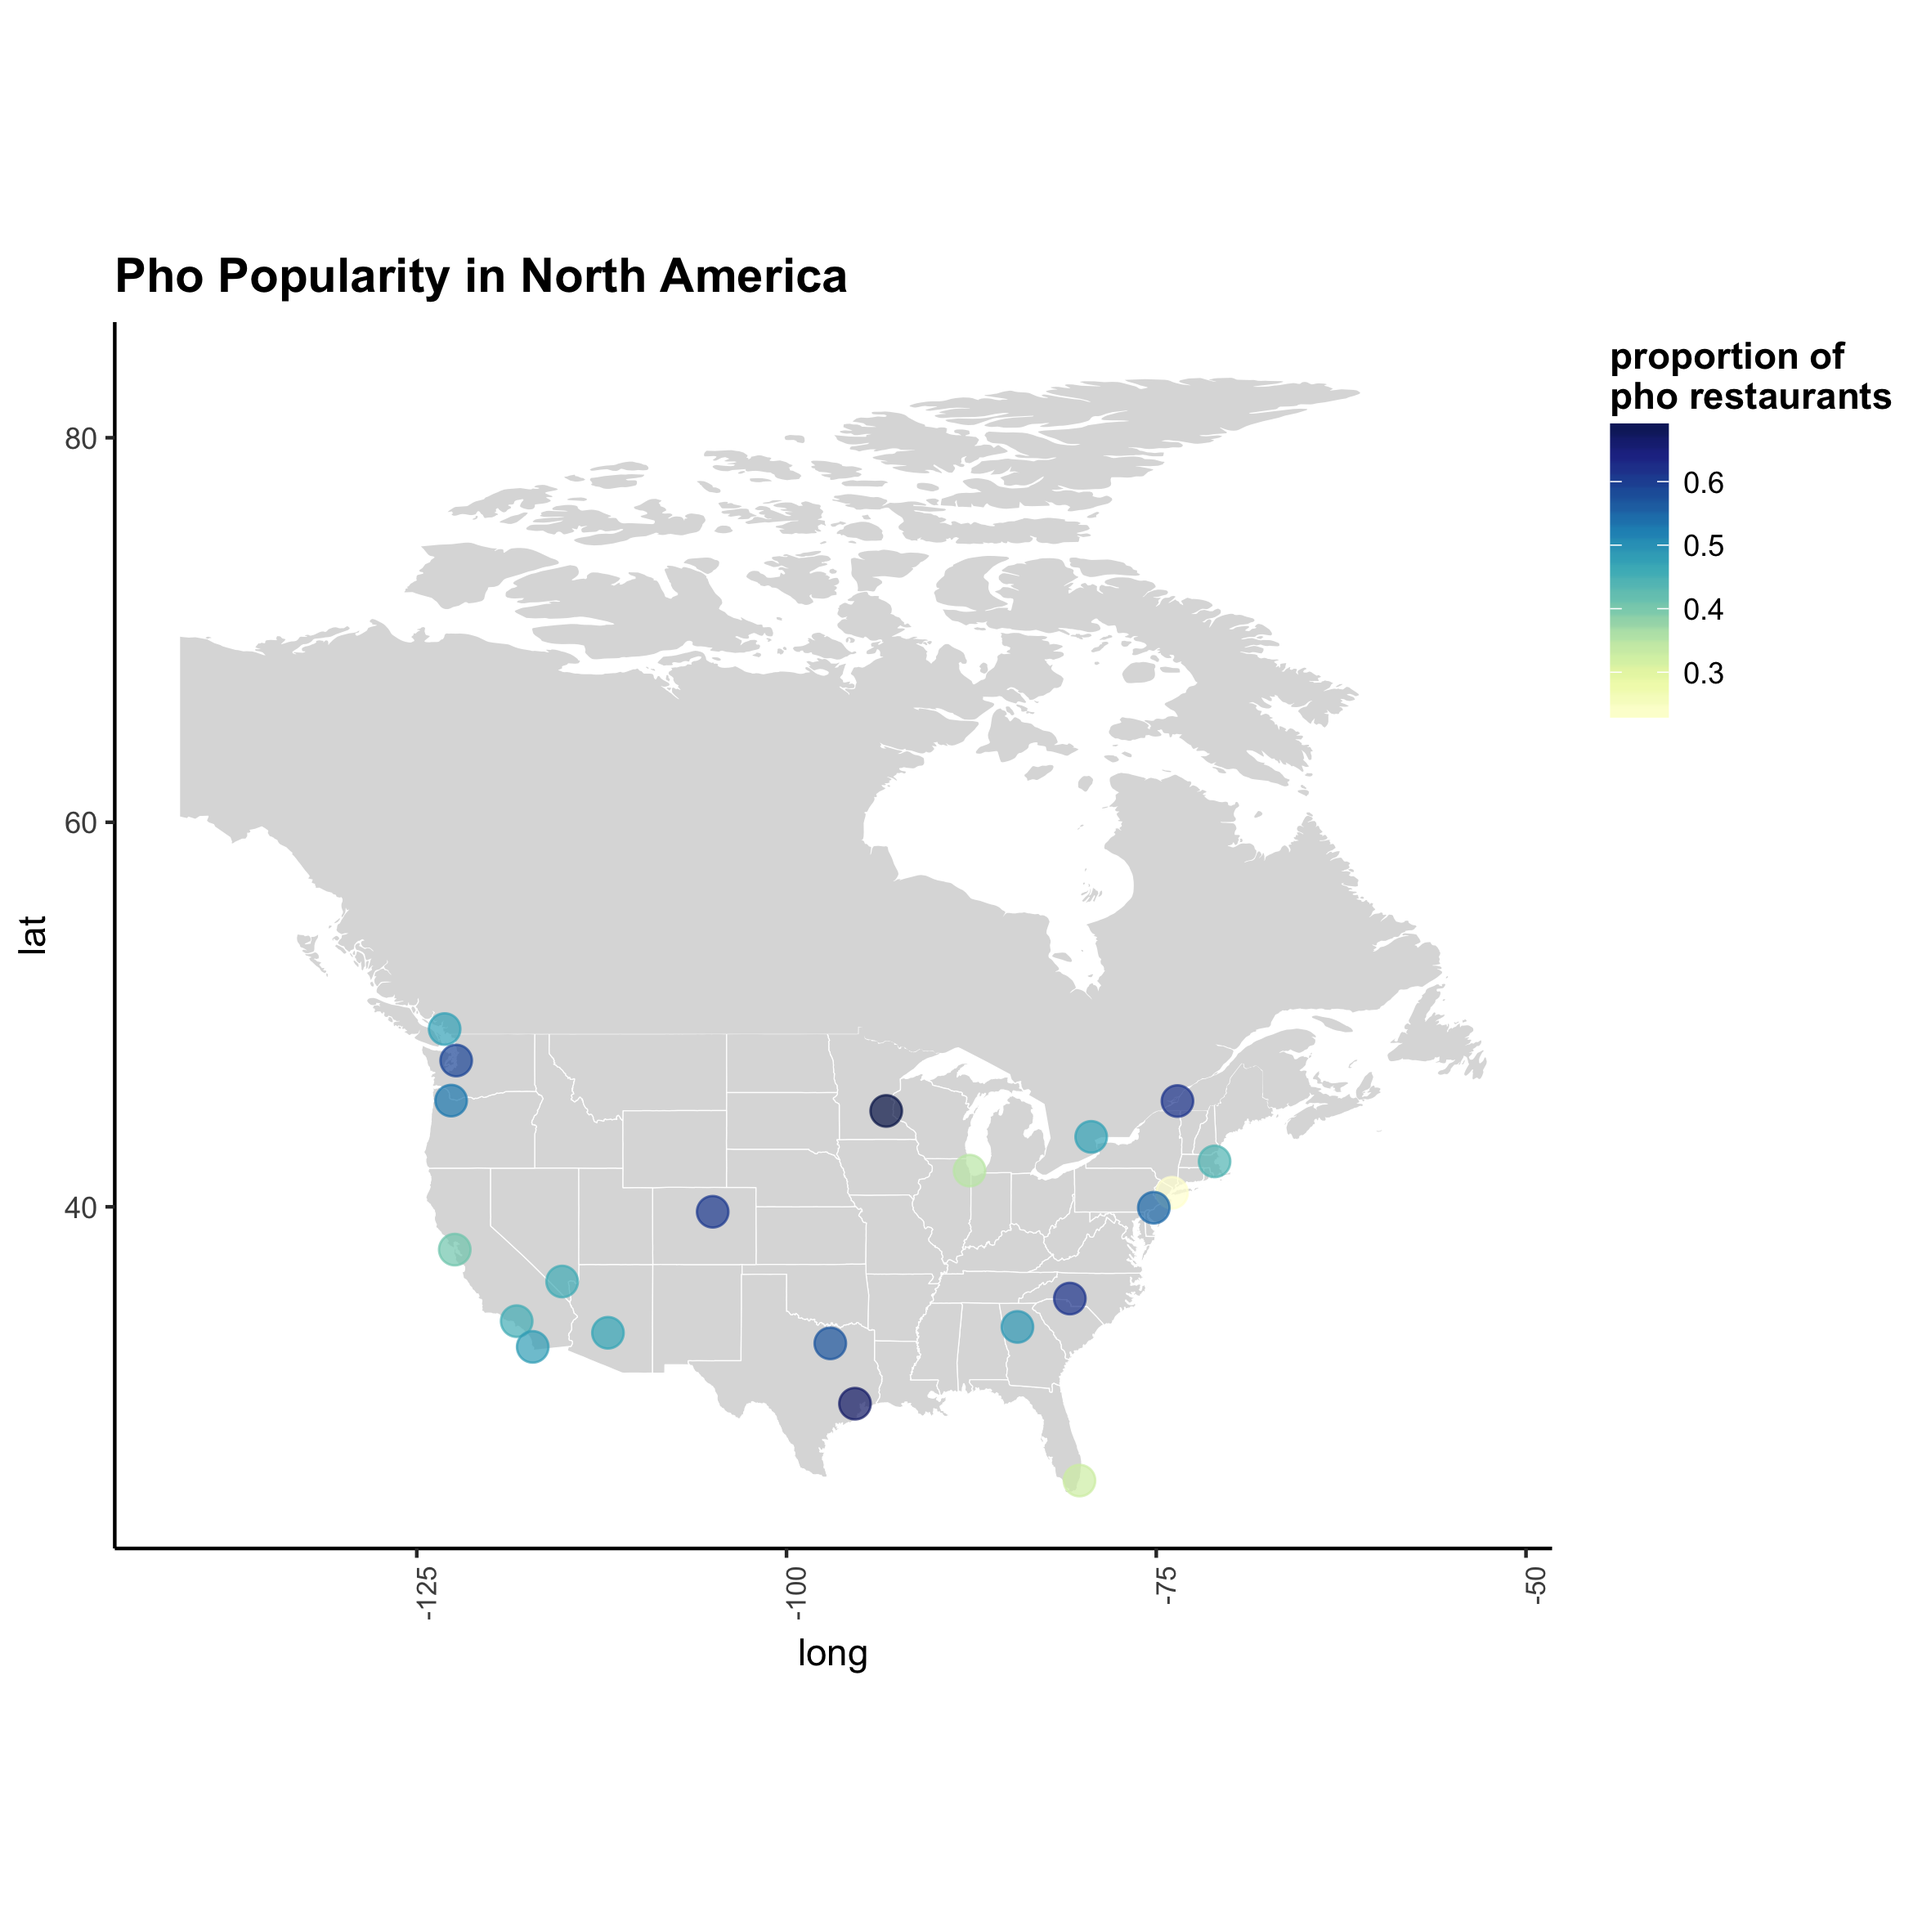
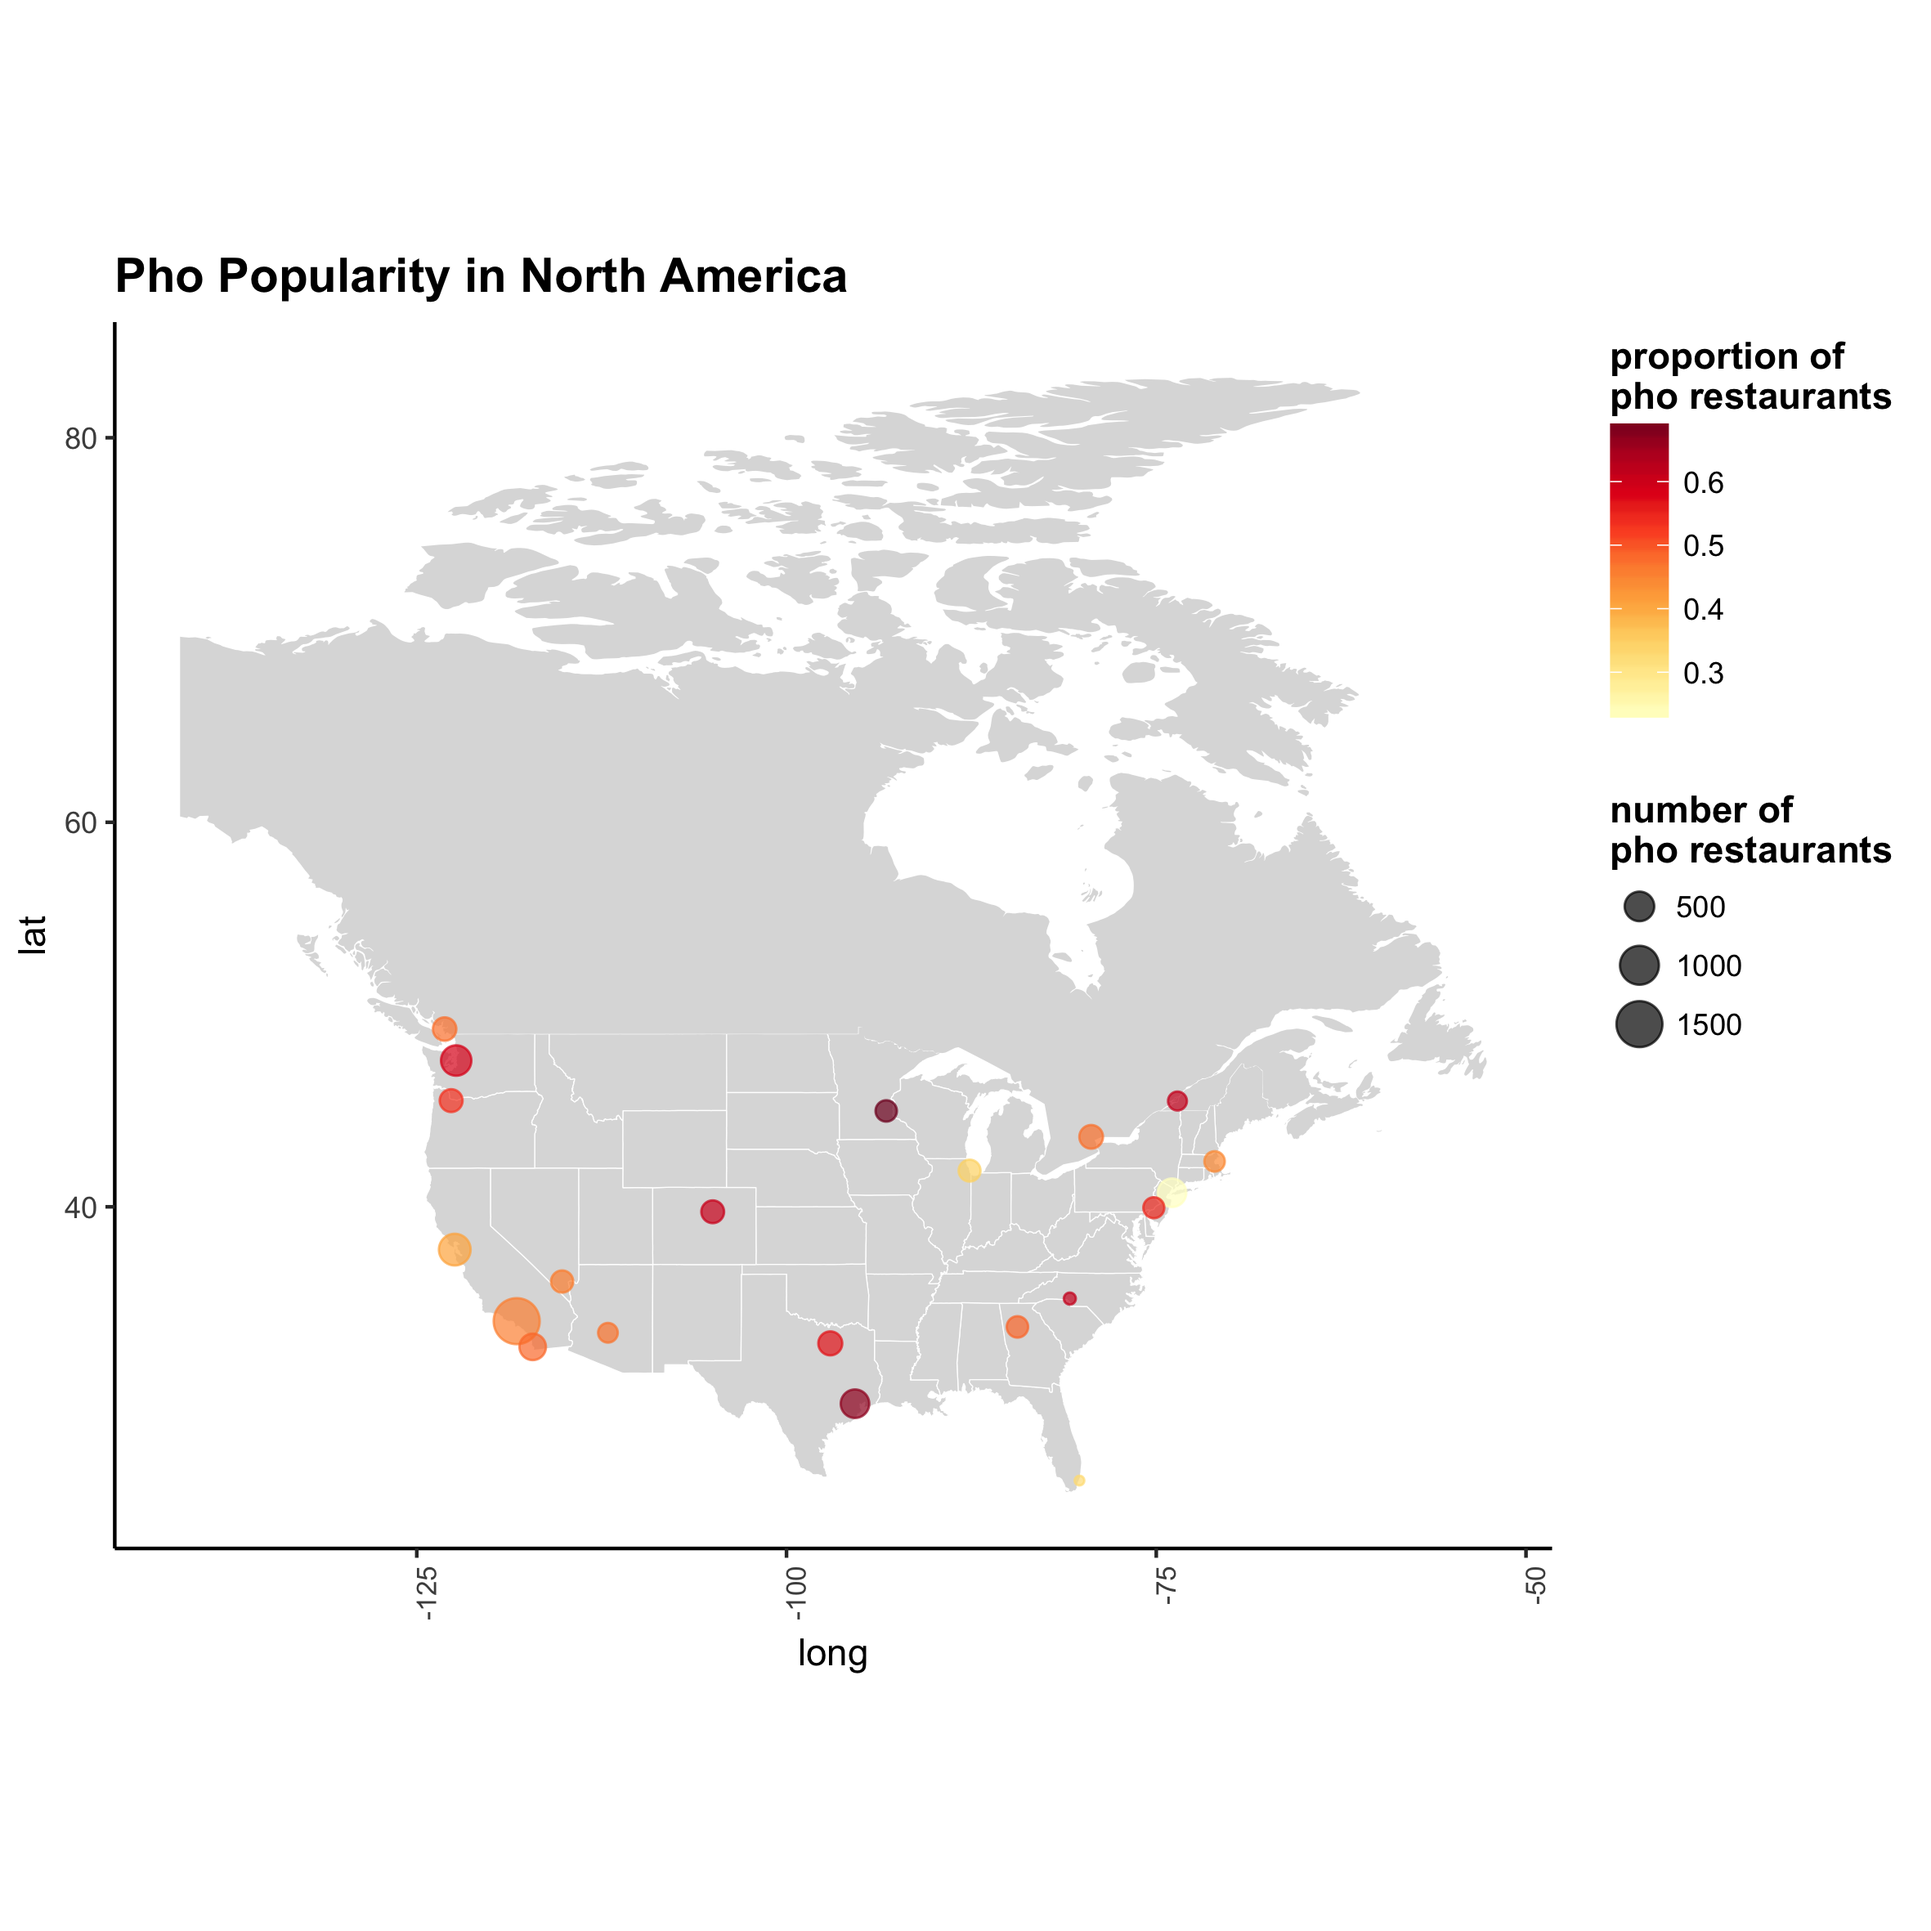
Modify plots in analysis.rmd to map # restaurants to size

diff --git a/doc/report.md b/doc/report.md
@@ -5,12 +5,12 @@ Jill Cates
 
 ### Ramen and Pho Restaurants by North American City
 
-![](../results/ramen_pho_restaurants_by_city.png)
+![](../../results/ramen_pho_restaurants_by_city.png)
 
 ### Proportion of Pho Restaurants (vs. Ramen) in North America
 
-![](../results/pho_popularity.png)
+![](../../results/pho_popularity.png)
 
 ### Proportion of Ramen Restaurants (vs. Pho) in North America
 
-![](../results/ramen_popularity.png)
+![](../../results/ramen_popularity.png)
